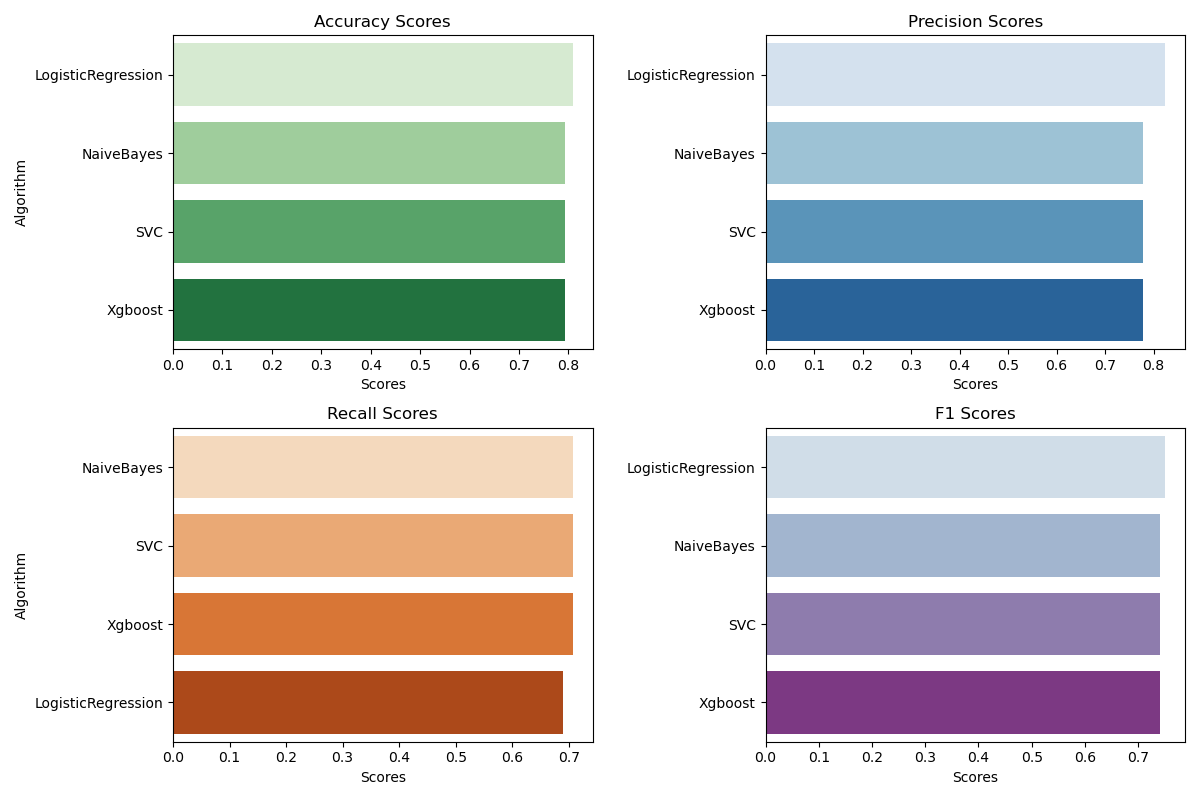
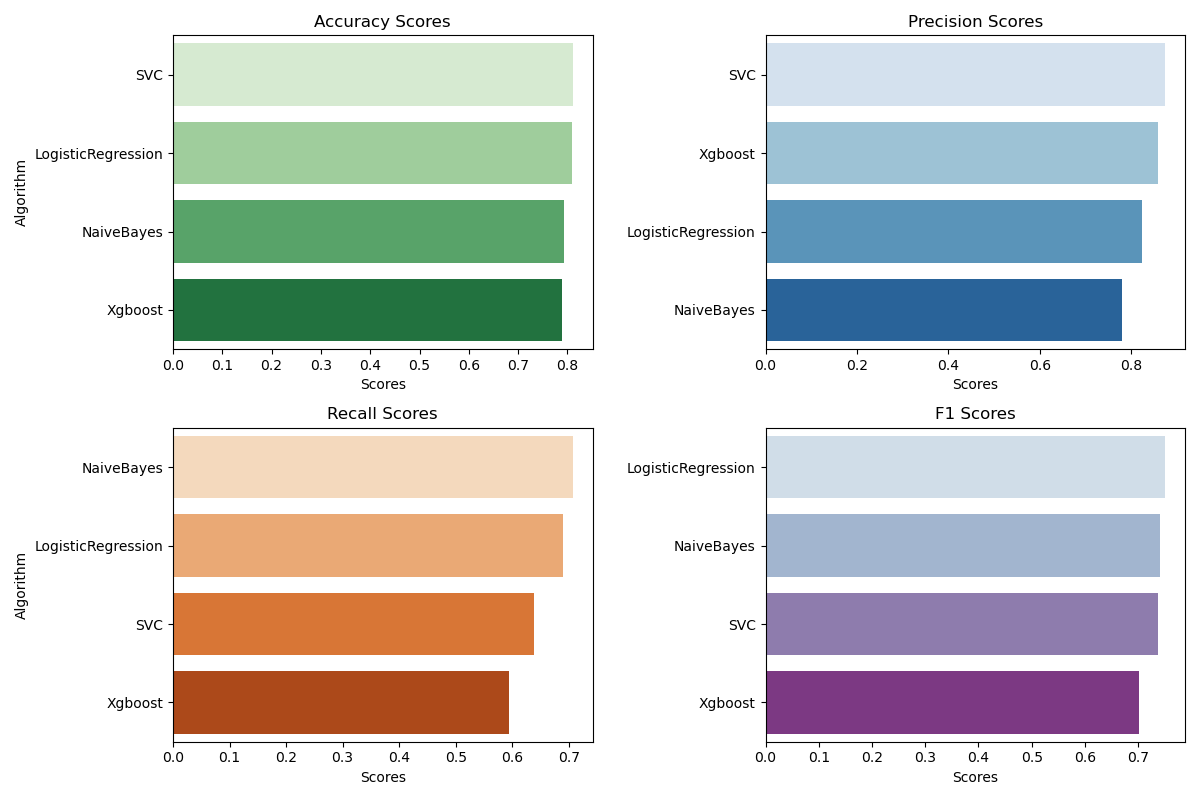
Update

diff --git a/MachineLearning.py b/MachineLearning.py
@@ -75,7 +75,7 @@ f1_nb = f1_score(Y_test, pred_nb)
 #Support Vector Machine
 svc = SVC(kernel='rbf', random_state=0)
 svc.fit(X_vec, Y_train)
-pred_svc = nb.predict(vec.transform(X_test))
+pred_svc = svc.predict(vec.transform(X_test))
 #Metrics to evaluate the effectiveness of the model
 cmatrix_svc = confusion_matrix(Y_test, pred_svc)
 acc_svc = accuracy_score(Y_test, pred_svc)
@@ -88,7 +88,7 @@ f1_svc = f1_score(Y_test, pred_svc)
 xgb = XGBClassifier(max_depth=7, n_estimators=200, colsample_bytree=0.8, 
                         subsample=0.8, nthread=10, learning_rate=0.1)
 xgb.fit(X_vec, Y_train)
-pred_xgb = nb.predict(vec.transform(X_test))
+pred_xgb = xgb.predict(vec.transform(X_test))
 #Metrics to evaluate the effectiveness of the model
 cmatrix_xgb = confusion_matrix(Y_test, pred_xgb)
 acc_xgb = accuracy_score(Y_test, pred_xgb)
